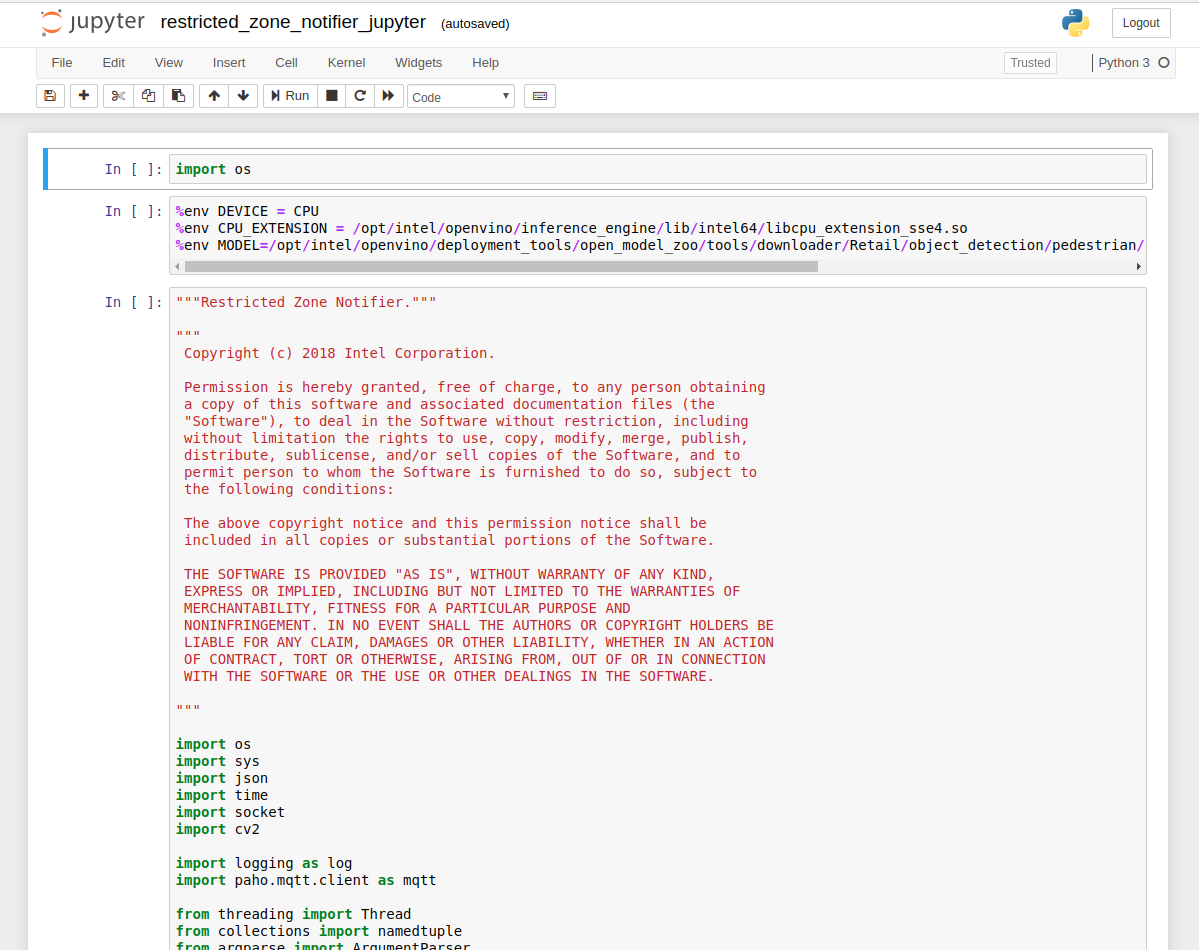
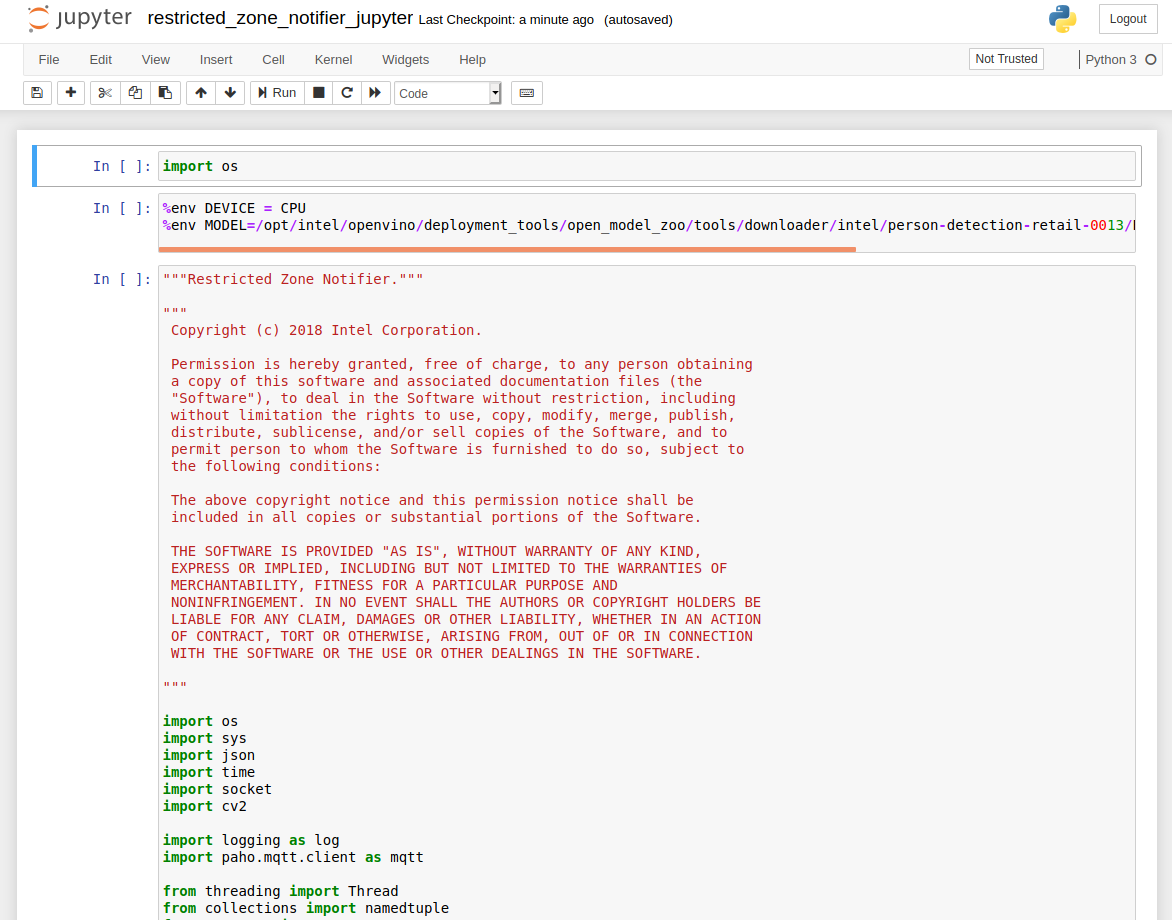
Updating to OpenVINO 2020.3

diff --git a/Jupyter/inference.py b/Jupyter/inference.py
@@ -70,7 +70,7 @@ class Network:
 
         # Read IR
         log.info("Reading IR...")
-        self.net = IENetwork(model=model_xml, weights=model_bin)
+        self.net = self.plugin.read_network(model=model_xml, weights=model_bin)
         log.info("Loading IR to the plugin...")
 
         if "CPU" in device:

diff --git a/application/inference.py b/application/inference.py
@@ -70,7 +70,7 @@ class Network:
 
         # Read IR
         log.info("Reading IR...")
-        self.net = IENetwork(model=model_xml, weights=model_bin)
+        self.net = self.plugin.read_network(model=model_xml, weights=model_bin)
         log.info("Loading IR to the plugin...")
 
         if "CPU" in device:

diff --git a/README.md b/README.md
@@ -3,7 +3,7 @@
 
 | Details            |              |
 |-----------------------|---------------|
-| Target OS:            |  Ubuntu\* 16.04 LTS   |
+| Target OS:            |  Ubuntu\* 18.04 LTS   |
 | Programming Language: |  Python* 3.5 |
 | Time to Complete:    |  30 min     |
 
@@ -20,7 +20,7 @@ This application is designed to detect the humans present in a predefined select
  
 ### Software
 
-* [Ubuntu\* 16.04 LTS](http://releases.ubuntu.com/16.04/)
+* [Ubuntu\* 18.04 LTS](http://releases.ubuntu.com/16.04/)
 
 * OpenCL™ Runtime package
 
@@ -28,7 +28,7 @@ This application is designed to detect the humans present in a predefined select
  
       uname -a
   
-* Intel® Distribution of OpenVINO™ toolkit 2019 R3 Release
+* Intel® Distribution of OpenVINO™ toolkit 2020 R3 Release
 
 ## How It works
 
@@ -48,7 +48,7 @@ The program creates two threads for concurrency:
 Steps to clone the reference implementation:
 ```
 sudo apt-get update && sudo apt-get install git
-git clone https://github.com/intel-iot-devkit/restricted-zone-notifier-python.git
+git clone https://github.com/intel-iot-devkit/restricted-zone-notifier-python.git 
 ``` 
 ### Install Intel® Distribution of OpenVINO™ toolkit
 
@@ -61,7 +61,7 @@ You will need the OpenCL™ Runtime package if you plan to run inference on the 
 Mosquitto is an open source message broker that implements the MQTT protocol. The MQTT protocol provides a lightweight method of carrying out messaging using a publish/subscribe model.
 
 ### Which model to use
-This application uses the [person-detection-retail-0013](https://docs.openvinotoolkit.org/2019_R3/_models_intel_person_detection_retail_0013_description_person_detection_retail_0013.html)
+This application uses the [person-detection-retail-0013](https://docs.openvinotoolkit.org/2020.3/_models_intel_person_detection_retail_0013_description_person_detection_retail_0013.html)
  Intel® pre-trained model, that can be accessed using the **model downloader**. The **model downloader** downloads the __.xml__ and __.bin__ files that will be used by the application.
  
 To install the dependencies of the RI and to download the **person-detection-retail-0013** Intel® model, run the following command:
@@ -137,7 +137,7 @@ For example, if the output of above command is /dev/video0, then config.json wou
 ## Setup the environment
 You must configure the environment to use the Intel® Distribution of OpenVINO™ toolkit one time per session by running the following command:
 
-    source /opt/intel/openvino/bin/setupvars.sh -pyver 3.5
+    source /opt/intel/openvino/bin/setupvars.sh
     
 __Note__: This command needs to be executed only once in the terminal where the application will be executed. If the terminal is closed, the command needs to be executed again.
     
@@ -152,16 +152,11 @@ To see a list of the various options:
     python3 restricted_zone_notifier.py --help
 
 ### Running on the CPU
-When running Intel® Distribution of OpenVINO™ toolkit Python applications on the CPU,
-the CPU extension library is required. This can be found at
-
-    /opt/intel/openvino/deployment_tools/inference_engine/lib/intel64/
- 
 A user can specify a target device to run on by using the device command-line argument `-d` followed by one of the values `CPU`, `GPU`,`MYRIAD` or `HDDL`.<br>
 
 Though by default application runs on CPU, this can also be explicitly specified by  ```-d CPU``` command-line argument:
 
-    python3 restricted_zone_notifier.py -m /opt/intel/openvino/deployment_tools/open_model_zoo/tools/downloader/intel/person-detection-retail-0013/FP32/person-detection-retail-0013.xml -l /opt/intel/openvino/inference_engine/lib/intel64/libcpu_extension_sse4.so -d CPU
+    python3 restricted_zone_notifier.py -m /opt/intel/openvino/deployment_tools/open_model_zoo/tools/downloader/intel/person-detection-retail-0013/FP32/person-detection-retail-0013.xml -d CPU
 
 To run the application on sync mode, use `-f sync` as command line argument. By default, the application runs on async mode.
 
@@ -175,7 +170,7 @@ You can run the application using those coordinates by using the `-x`, `-y`, `-h
 
 For example:
 
-    python3 restricted_zone_notifier.py -m /opt/intel/openvino/deployment_tools/open_model_zoo/tools/downloader/intel/person-detection-retail-0013/FP32/person-detection-retail-0013.xml -l /opt/intel/openvino/inference_engine/lib/intel64/libcpu_extension_sse4.so -x 429 -y 101 -ht 619 -w 690
+    python3 restricted_zone_notifier.py -m /opt/intel/openvino/deployment_tools/open_model_zoo/tools/downloader/intel/person-detection-retail-0013/FP32/person-detection-retail-0013.xml -x 429 -y 101 -ht 619 -w 690
 
 If you do not select or specify an area, by default the entire window is selected as the off limits area.
 To run with multiple devices use -d MULTI:device1,device2. For example: -d MULTI:CPU,GPU,MYRIAD<br>
@@ -204,45 +199,6 @@ To run on the Intel® Movidius™ VPU, use the ```-d HDDL ``` command-line argum
     python3 restricted_zone_notifier.py -m /opt/intel/openvino/deployment_tools/open_model_zoo/tools/downloader/intel/person-detection-retail-0013/FP16/person-detection-retail-0013.xml -d HDDL
 
 **Note:** The Intel® Movidius™ VPU can only run FP16 models. The model that is passed to the application, through the `-m <path_to_model>` command-line argument, must be of data type FP16.
-
-
-#### Run on the Intel® Arria® 10 FPGA
-
-Before running the application on the FPGA, set the environment variables and  program the AOCX (bitstream) file.<br>
-
-Set the Board Environment Variable to the proper directory:
-
-```
-export AOCL_BOARD_PACKAGE_ROOT=/opt/intel/openvino/bitstreams/a10_vision_design_sg<#>_bitstreams/BSP/a10_1150_sg<#>
-```
-**NOTE**: If you do not know which version of the board you have, please refer to the product label on the fan cover side or by the product SKU: Mustang-F100-A10-R10 => SG1; Mustang-F100-A10E-R10 => SG2 <br>
-
-Set the Board Environment Variable to the proper directory:
-```
-export QUARTUS_ROOTDIR=/home/<user>/intelFPGA/18.1/qprogrammer
-```
-Set the remaining environment variables:
-```
-export PATH=$PATH:/opt/altera/aocl-pro-rte/aclrte-linux64/bin:/opt/altera/aocl-pro-rte/aclrte-linux64/host/linux64/bin:/home/<user>/intelFPGA/18.1/qprogrammer/bin
-export INTELFPGAOCLSDKROOT=/opt/altera/aocl-pro-rte/aclrte-linux64
-export LD_LIBRARY_PATH=$LD_LIBRARY_PATH:$AOCL_BOARD_PACKAGE_ROOT/linux64/lib
-export CL_CONTEXT_COMPILER_MODE_INTELFPGA=3
-source /opt/altera/aocl-pro-rte/aclrte-linux64/init_opencl.sh
-```
-**NOTE**: It is recommended to create your own script for your system to aid in setting up these environment variables. It will be run each time you need a new terminal or restart your system.
-
-The bitstreams for HDDL-F can be found under the `/opt/intel/openvino/bitstreams/a10_vision_design_sg<#>_bitstreams/` directory.<br><br>To program the bitstream use the below command:<br>
-```
-aocl program acl0 /opt/intel/openvino/bitstreams/a10_vision_design_sg<#>_bitstreams/2019R3_PV_PL1_FP11_RMNet.aocx
-```
-
-For more information on programming the bitstreams, please refer the [link](https://software.intel.com/en-us/articles/OpenVINO-Install-Linux-FPGA#inpage-nav-11).
-
-To run the application on the FPGA with floating point precision 16 (FP16), use the `-d HETERO:FPGA,CPU` command-line argument:
-```
-python3 restricted_zone_notifier.py -m /opt/intel/openvino/deployment_tools/open_model_zoo/tools/downloader/intel/person-detection-retail-0013/FP16/person-detection-retail-0013.xml -l /opt/intel/openvino/inference_engine/lib/intel64/libcpu_extension_sse4.so -d HETERO:FPGA,CPU
-```
-
 
 ## Machine to Machine Messaging with MQTT
 

diff --git a/Jupyter/README.md b/Jupyter/README.md
@@ -1,9 +1,8 @@
-
 # Restricted Zone Notifier
 
 | Details            |              |
 |-----------------------|---------------|
-| Target OS:            |  Ubuntu\* 16.04 LTS   |
+| Target OS:            |  Ubuntu\* 18.04 LTS   |
 | Programming Language: |  Python* 3.5 |
 | Time to Complete:    |  30 min     |
 
@@ -20,7 +19,7 @@ This application is designed to detect the humans present in a predefined select
  
 ### Software
 
-* [Ubuntu\* 16.04 LTS](http://releases.ubuntu.com/16.04/)
+* [Ubuntu\* 18.04 LTS](http://releases.ubuntu.com/18.04/)
 
 * OpenCL™ Runtime package
 
@@ -28,7 +27,7 @@ This application is designed to detect the humans present in a predefined select
  
       uname -a
   
-* Intel® Distribution of OpenVINO™ toolkit 2019 R3 Release
+* Intel® Distribution of OpenVINO™ toolkit 2020 R3 Release
 * Jupyter* Notebook v5.7.0
 
 ## How It works
@@ -62,7 +61,7 @@ You will need the OpenCL™ Runtime package if you plan to run inference on the 
 Mosquitto is an open source message broker that implements the MQTT protocol. The MQTT protocol provides a lightweight method of carrying out messaging using a publish/subscribe model.
 
 ### Which model to use
-This application uses the [person-detection-retail-0013](https://docs.openvinotoolkit.org/2019_R3/_models_intel_person_detection_retail_0013_description_person_detection_retail_0013.html)
+This application uses the [person-detection-retail-0013](https://docs.openvinotoolkit.org/2020.3/_models_intel_person_detection_retail_0013_description_person_detection_retail_0013.html)
  Intel® pre-trained model, that can be accessed using the **model downloader**. The **model downloader** downloads the __.xml__ and __.bin__ files that will be used by the application.
  
 To install the dependencies of the RI and to download the **person-detection-retail-0013** Intel® model, run the following command:
@@ -138,7 +137,7 @@ For example, if the output of above command is /dev/video0, then config.json wou
 ## Setup the environment
 You must configure the environment to use the Intel® Distribution of OpenVINO™ toolkit one time per session by running the following command:
 
-    source /opt/intel/openvino/bin/setupvars.sh -pyver 3.5
+    source /opt/intel/openvino/bin/setupvars.sh
 
 __Note__: This command needs to be executed only once in the terminal where the application will be executed. If the terminal is closed, the command needs to be executed again.
 
@@ -149,7 +148,7 @@ __Note__: This command needs to be executed only once in the terminal where the 
       cd <path_to_the_restricted-zone-notifier-python_directory>/Jupyter
 
       jupyter notebook
-
+<!--
     **Note:** Before running the application on the FPGA, set the environment variables and  program the AOCX (bitstream) file.<br>
 
     Set the Board Environment Variable to the proper directory:
@@ -179,7 +178,7 @@ __Note__: This command needs to be executed only once in the terminal where the 
     ```
 
     For more information on programming the bitstreams, please refer the [link](https://software.intel.com/en-us/articles/OpenVINO-Install-Linux-FPGA#inpage-nav-11).
-
+-->
 **Follow the steps to run the code on Jupyter:**
 
 ![Jupyter Notebook](../docs/images/jupyter.png)
@@ -193,7 +192,6 @@ __Note__: This command needs to be executed only once in the terminal where the 
 4. Export the below environment variables in second cell of Jupyter and press **Shift+Enter**.<br>
        
        %env DEVICE = CPU
-       %env CPU_EXTENSION = /opt/intel/openvino/inference_engine/lib/intel64/libcpu_extension_sse4.so 
        %env MODEL=/opt/intel/openvino/deployment_tools/open_model_zoo/tools/downloader/intel/person-detection-retail-0013/FP32/person-detection-retail-0013.xml
        
 5. User can set threshold for the detection (PROB_THRESHOLD),
@@ -235,30 +233,26 @@ __Note__: This command needs to be executed only once in the terminal where the 
            %env MODEL=/opt/intel/openvino/deployment_tools/open_model_zoo/tools/downloader/intel/person-detection-retail-0013/FP16/person-detection-retail-0013.xml
        **FP16**: FP16 is half-precision floating-point arithmetic uses 16 bits. 5 bits for the magnitude and 10 bits for the precision. For more information, [click here](https://en.wikipedia.org/wiki/Half-precision_floating-point_format)
 
-     * **CPU_EXTENSION** environment variable is not required.
 
 2. To run the application on **Intel® Neural Compute Stick**: 
       * Change the **%env DEVICE = CPU** to **%env DEVICE = MYRIAD**
       * The Intel® Neural Compute Stick can only run FP16 models. Hence change the environment variable for the model as shown below. <br>
       
             %env MODEL=/opt/intel/openvino/deployment_tools/open_model_zoo/tools/downloader/intel/person-detection-retail-0013/FP16/person-detection-retail-0013.xml
-      * **CPU_EXTENSION** environment variable is not required.
 
 3. To run the application on **Intel® Movidius™ VPU**:
       * Change the **%env DEVICE = CPU** to **%env DEVICE = HDDL**
       * The  Intel® Movidius™ VPU can only run FP16 models. Hence change the environment variable for the model as shown below. <br>
       
             %env MODEL=/opt/intel/openvino/deployment_tools/open_model_zoo/tools/downloader/intel/person-detection-retail-0013/FP16/person-detection-retail-0013.xml
-      * **CPU_EXTENSION** environment variable is not required.
 
+<!--
 4. To run the application on **Intel® Arria® 10 FPGA**:
       * Change the **%env DEVICE = CPU** to **%env DEVICE = HETERO:FPGA,CPU**
       * With the **floating point precision 16 (FP16)**, change the path of the model in the environment variable **MODEL** as given below:<br>
 
             %env MODEL=/opt/intel/openvino/deployment_tools/open_model_zoo/tools/downloader/intel/person-detection-retail-0013/FP16/person-detection-retail-0013.xml
-      * Export the **CPU_EXTENSION** environment variable as shown below:
-
-            %env CPU_EXTENSION = /opt/intel/openvino/inference_engine/lib/intel64/libcpu_extension_sse4.so
+-->
 
 5. **%env RATE** should always have float values (e.g. 0.02, 1.00, etc.,).
 
@@ -267,7 +261,6 @@ __Note__: This command needs to be executed only once in the terminal where the 
       * Change the **%env DEVICE = CPU** to **%env DEVICE = MULTI:CPU,GPU,MYRIAD**
       * With the **floating point precision 16 (FP16)**, change the path of the model in the environment variable **MODEL** as given below: <br>
             %env MODEL=/opt/intel/openvino/deployment_tools/open_model_zoo/tools/downloader/intel/person-detection-retail-0013/FP16/person-detection-retail-0013.xml
-      * **%env CPU_EXTENSION=/opt/intel/openvino/deployment_tools/inference_engine/lib/intel64/libcpu_extension_avx2.so**<br>
 
 
 ## Machine to Machine Messaging with MQTT
